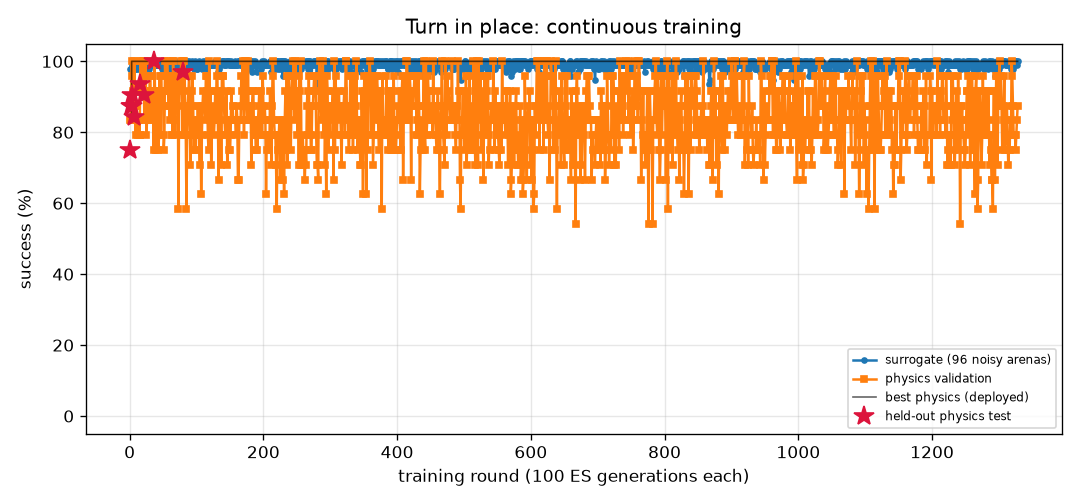
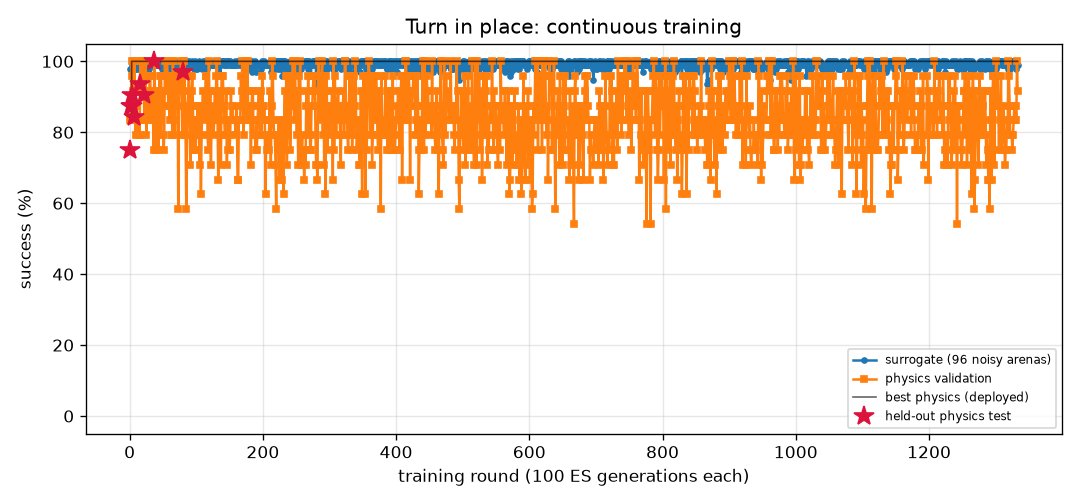
FlyLab: continuous training progress
- walk_forward: optimal, physics val 100% of 24, round 525
- turn: optimal, physics val 100% of 24, round 1333
- goto: optimal, physics val 100% of 24, round 404
- odor_seek: optimal, physics val 100% of 24, round 329
- odor_avoid: optimal, physics val 100% of 24, round 1124
- light_seek: optimal, physics val 100% of 24, round 607
- light_avoid: optimal, physics val 100% of 24, round 836

diff --git a/projects/09_flylab/training/turn/REPORT.md b/projects/09_flylab/training/turn/REPORT.md
@@ -1,14 +1,14 @@
 # Turn in place (`turn`) — training report
 
-*Auto-generated by `train_brains.py`, last updated 2026-11-24T14:01:51.*
+*Auto-generated by `train_brains.py`, last updated 2026-11-24T14:57:04.*
 
 ![curve](curve.png)
 
 | | |
 |---|---|
-| rounds | 1328 |
-| ES generations | 132800 |
-| physics runs | 32118 |
+| rounds | 1333 |
+| ES generations | 133300 |
+| physics runs | 32238 |
 | status | **optimal** |
 | best brain | round 80: physics validation **100%** on 24 arenas, surrogate 100% |
 | held-out physics test | **97%** on 32 unseen arenas (95% CI 84%-99%) (errors: [1.6, 3.3, 6.3, 3.7, 1.1, 0.4, 2.4, 2.9, 0.1, 2.6, 0.5, 2.7, 1.5, 3.1, 4.5, 0.2, 0.5, 1.1, 2.0, 4.4, 2.8, 3.2, 0.3, 2.2, 0.5, 3.0, 0.3, 5.4, 0.4, 1.0, 4.7, 10.7]) |
@@ -17,11 +17,6 @@ Physics error per arena: deg from target heading (< 20 = success).
 
 | round | level | gens | sigma | surrogate | physics val | val errors | test | note |
 |---:|---:|---:|---:|---:|---:|---|---:|---|
-| 1289 | 3 | 128900 | 0.024 | 99% | 67% | [8.2, 0.4, 3.4, 0.7, 2.1, 109.1, 3.8, 1.8, 4.8, 0.6, 4.5, 1.8, 0.3, 0.2, 5.5, 2.6, 0.8, 2.9, 0.0, 7.5, 5.4, 3.6, 6.8, 7.2] |  |  |
-| 1290 | 3 | 129000 | 0.025 | 100% | 67% | [9.3, 4.2, 7.9, 1.2, 1.9, 7.1, 6.5, 4.2, 6.7, 1.5, 6.8, 1.6, 2.4, 1.1, 6.4, 3.6, 1.6, 2.8, 5.5, 1.5, 5.3, 0.9, 7.3, 7.7] |  |  |
-| 1291 | 3 | 129100 | 0.024 | 98% | 58% | [5.3, 1.3, 7.4, 2.3, 1.1, 3.9, 7.8, 0.2, 6.8, 1.0, 7.4, 3.0, 2.1, 0.2, 6.6, 1.8, 2.2, 3.5, 3.3, 4.2, 4.6, 2.2, 6.2, 8.2] |  |  |
-| 1292 | 3 | 129200 | 0.025 | 99% | 92% | [3.2, 4.2, 0.6, 1.3, 0.7, 4.4, 8.4, 10.0, 9.9, 1.9, 5.4, 4.6, 2.3, 2.0, 5.0, 12.2, 4.8, 4.4, 3.8, 3.2, 2.8, 3.9, 9.9, 7.8] |  | restart from best |
-| 1293 | 3 | 129300 | 0.024 | 99% | 92% | [1.0, 3.4, 0.7, 1.7, 12.8, 0.7, 7.4, 8.0, 7.0, 0.8, 4.5, 1.2, 0.9, 2.1, 3.3, 2.1, 1.2, 1.7, 3.2, 2.7, 5.1, 1.0, 5.8, 2.3] |  |  |
 | 1294 | 3 | 129400 | 0.025 | 96% | 67% | [14.4, 10.8, 10.2, 4.6, 20.1, 7.9, 10.7, 12.3, 8.7, 4.6, 5.9, 7.4, 4.5, 3.4, 5.3, 4.5, 7.3, 7.1, 4.6, 7.6, 0.2, 3.4, 9.5, 9.3] |  |  |
 | 1295 | 3 | 129500 | 0.026 | 97% | 83% | [5.3, 1.6, 6.4, 1.5, 15.5, 0.7, 6.5, 8.6, 6.5, 1.7, 5.5, 1.7, 1.7, 1.6, 4.7, 3.1, 0.2, 4.6, 0.7, 0.6, 5.3, 3.9, 6.4, 5.0] |  |  |
 | 1296 | 3 | 129600 | 0.026 | 99% | 96% | [2.8, 3.7, 1.0, 2.2, 0.0, 1.7, 5.6, 6.2, 5.2, 0.7, 3.8, 1.2, 1.7, 2.7, 4.0, 0.3, 1.3, 0.9, 0.9, 0.4, 2.9, 1.5, 5.4, 6.9] |  | restart from best |
@@ -57,3 +52,8 @@ Physics error per arena: deg from target heading (< 20 = success).
 | 1326 | 3 | 132600 | 0.024 | 100% | 79% | [2.2, 4.4, 0.8, 3.2, 1.1, 2.0, 5.5, 6.0, 4.7, 0.2, 4.4, 0.9, 0.8, 0.4, 5.8, 3.2, 0.5, 1.3, 2.6, 3.3, 3.2, 3.0, 6.0, 5.2] |  |  |
 | 1327 | 3 | 132700 | 0.024 | 99% | 83% | [5.6, 9.5, 2.0, 1.4, 1.6, 2.5, 3.0, 1.0, 3.3, 0.4, 4.2, 1.8, 1.2, 1.9, 2.6, 2.4, 1.9, 0.5, 1.2, 2.1, 7.2, 3.1, 3.3, 0.2] |  |  |
 | 1328 | 3 | 132800 | 0.025 | 100% | 88% | [4.2, 8.9, 0.2, 0.8, 2.8, 1.2, 4.7, 3.3, 3.6, 1.4, 3.1, 1.7, 3.5, 2.6, 3.9, 2.0, 1.7, 1.0, 1.6, 1.1, 5.4, 2.0, 3.6, 3.5] |  | restart from best |
+| 1329 | 3 | 132900 | 0.024 | 99% | 83% | [8.2, 7.5, 3.8, 3.0, 4.9, 4.5, 5.0, 0.3, 4.1, 0.1, 3.3, 2.3, 2.4, 3.6, 2.6, 0.9, 1.9, 0.2, 0.8, 1.7, 6.5, 2.7, 5.2, 0.3] |  |  |
+| 1330 | 3 | 133000 | 0.025 | 98% | 88% | [5.5, 6.0, 2.4, 2.6, 1.9, 3.1, 5.4, 6.6, 4.2, 0.3, 4.4, 0.7, 1.6, 3.7, 1.5, 1.5, 0.3, 2.1, 0.3, 0.2, 6.1, 0.5, 7.3, 4.8] |  |  |
+| 1331 | 3 | 133100 | 0.025 | 99% | 83% | [0.2, 7.4, 10.6, 0.9, 2.7, 1.9, 6.8, 10.0, 7.5, 2.1, 7.5, 2.9, 1.2, 0.6, 5.9, 2.6, 2.2, 4.1, 0.8, 2.7, 3.7, 2.5, 5.4, 7.7] |  |  |
+| 1332 | 3 | 133200 | 0.025 | 99% | 100% | [3.4, 6.5, 5.5, 3.3, 1.6, 2.0, 4.7, 2.0, 3.5, 0.6, 3.2, 0.7, 3.7, 3.1, 2.6, 0.3, 0.3, 1.0, 0.4, 3.3, 7.2, 1.7, 3.8, 8.5] |  | restart from best |
+| 1333 | 3 | 133300 | 0.024 | 99% | 92% | [0.7, 1.2, 3.0, 0.9, 13.3, 1.0, 5.8, 8.8, 6.8, 1.1, 5.0, 1.6, 1.5, 1.8, 4.9, 2.5, 1.3, 1.6, 2.3, 1.1, 4.8, 2.1, 7.1, 0.0] |  |  |

diff --git a/projects/09_flylab/training/odor_avoid/REPORT.md b/projects/09_flylab/training/odor_avoid/REPORT.md
@@ -1,14 +1,14 @@
 # Escape a bad smell (`odor_avoid`) — training report
 
-*Auto-generated by `train_brains.py`, last updated 2026-11-24T11:16:00.*
+*Auto-generated by `train_brains.py`, last updated 2026-11-24T14:50:23.*
 
 ![curve](curve.png)
 
 | | |
 |---|---|
-| rounds | 1121 |
-| ES generations | 112100 |
-| physics runs | 24210 |
+| rounds | 1124 |
+| ES generations | 112400 |
+| physics runs | 24282 |
 | status | **optimal** |
 | best brain | round 373: physics validation **100%** on 24 arenas, surrogate 97% |
 | held-out physics test | **97%** on 32 unseen arenas (95% CI 84%-99%) (errors: [62.0, 57.4, 62.6, 61.9, 59.0, 61.6, 56.5, 60.7, 31.7, 60.9, 63.1, 57.1, 61.1, 62.1, 61.5, 60.2, 62.2, 55.2, 62.1, 54.2, 61.3, 62.0, 58.0, 61.9, 59.8, 56.5, 56.3, 56.4, 56.3, 57.7, 61.9, 32.4]) |
@@ -17,9 +17,6 @@ Physics error per arena: mm gained away from source (> 6 without first approachi
 
 | round | level | gens | sigma | surrogate | physics val | val errors | test | note |
 |---:|---:|---:|---:|---:|---:|---|---:|---|
-| 1082 | 3 | 108200 | 0.026 | 95% | 96% | [62.8, 57.9, 58.7, 61.0, 61.7, 60.7, 61.4, 27.8, 60.8, 59.0, 61.8, 60.9, 54.9, 58.2, 48.3, 61.1, 61.6, 61.3, 55.5, 56.9, 61.5, 55.4, 58.2, 44.6] |  |  |
-| 1083 | 3 | 108300 | 0.027 | 95% | 96% | [63.0, 57.6, 58.0, 61.2, 60.5, 60.8, 61.1, 42.6, 60.5, 49.4, 60.6, 59.8, 52.4, 55.1, 43.9, 61.5, 60.3, 61.3, 54.2, 55.9, 60.4, 58.5, 58.7, 47.9] |  |  |
-| 1084 | 3 | 108400 | 0.027 | 94% | 96% | [62.3, 59.1, 58.2, 60.2, 60.5, 61.3, 60.2, 48.4, 60.4, 59.5, 60.8, 59.7, 53.4, 57.4, 41.6, 60.9, 59.7, 60.2, 53.3, 56.5, 59.4, 59.7, 60.4, 50.6] |  |  |
 | 1085 | 3 | 108500 | 0.028 | 96% | 96% | [63.0, 61.0, 58.1, 61.1, 61.5, 62.3, 61.5, 60.0, 60.5, 62.2, 61.4, 60.0, 53.5, 58.3, 45.4, 62.4, 60.6, 62.2, 54.2, 57.8, 59.7, 62.4, 55.9, 62.7] |  | restart from best |
 | 1086 | 3 | 108600 | 0.026 | 93% | 100% | [62.7, 55.9, 56.4, 57.9, 61.9, 60.9, 60.4, 15.2, 60.6, 61.7, 62.4, 62.0, 55.2, 56.7, 45.9, 61.7, 61.5, 62.5, 55.4, 57.2, 61.6, 57.4, 58.1, 31.8] |  |  |
 | 1087 | 3 | 108700 | 0.028 | 97% | 100% | [63.0, 57.1, 56.7, 57.6, 62.6, 61.5, 61.9, 39.4, 60.3, 60.4, 62.4, 61.9, 54.1, 56.7, 52.2, 62.5, 62.5, 61.0, 55.3, 55.5, 62.4, 61.6, 57.6, 58.5] |  |  |
@@ -57,3 +54,6 @@ Physics error per arena: mm gained away from source (> 6 without first approachi
 | 1119 | 3 | 111900 | 0.026 | 91% | 100% | [12.5, 54.4, 55.9, 53.5, 62.6, 61.9, 59.5, 62.1, 60.3, 61.6, 61.8, 62.3, 55.0, 56.7, 50.1, 62.5, 62.6, 62.2, 55.6, 53.9, 62.3, 61.7, 59.7, 61.8] |  |  |
 | 1120 | 3 | 112000 | 0.029 | 97% | 100% | [61.3, 58.5, 56.1, 59.0, 61.2, 61.6, 60.1, 29.6, 61.4, 60.8, 61.2, 60.9, 54.9, 57.0, 51.7, 60.7, 61.7, 60.8, 55.0, 56.7, 62.0, 61.6, 58.9, 47.4] |  |  |
 | 1121 | 3 | 112100 | 0.026 | 98% | 96% | [52.4, 51.3, 51.7, 51.9, 50.4, 52.6, 52.4, 52.5, 52.1, 40.0, 23.1, 52.7, 44.2, 50.7, 13.9, 46.7, 52.6, 42.3, 46.4, 50.0, 53.0, 53.5, 52.3, 53.9] |  | restart from best |
+| 1122 | 3 | 112200 | 0.026 | 96% | 96% | [62.3, 59.7, 57.7, 60.8, 61.8, 62.2, 62.0, 59.5, 62.0, 61.2, 61.4, 61.7, 53.8, 58.4, 34.1, 61.9, 62.0, 61.6, 55.0, 59.6, 62.1, 61.8, 60.3, 55.3] |  |  |
+| 1123 | 3 | 112300 | 0.026 | 95% | 100% | [61.1, 59.3, 57.9, 59.3, 60.8, 61.3, 61.1, 38.1, 60.9, 39.0, 39.3, 59.6, 50.5, 56.9, 38.9, 60.3, 59.4, 60.0, 52.0, 58.4, 59.3, 24.6, 58.3, 19.4] |  |  |
+| 1124 | 3 | 112400 | 0.027 | 95% | 96% | [62.5, 56.7, 56.7, 56.4, 60.3, 61.8, 60.1, 61.9, 60.6, 59.3, 58.9, 60.3, 49.5, 53.2, 38.0, 61.8, 59.3, 61.0, 51.4, 58.3, 60.3, 62.4, 59.1, 62.0] |  |  |

diff --git a/projects/09_flylab/training/odor_seek/REPORT.md b/projects/09_flylab/training/odor_seek/REPORT.md
@@ -1,14 +1,14 @@
 # Find food by smell (`odor_seek`) — training report
 
-*Auto-generated by `train_brains.py`, last updated 2026-11-24T13:36:54.*
+*Auto-generated by `train_brains.py`, last updated 2026-11-24T14:08:45.*
 
 ![curve](curve.png)
 
 | | |
 |---|---|
-| rounds | 328 |
-| ES generations | 32800 |
-| physics runs | 7366 |
+| rounds | 329 |
+| ES generations | 32900 |
+| physics runs | 7390 |
 | status | **optimal** |
 | best brain | round 240: physics validation **100%** on 24 arenas, surrogate 100% |
 | held-out physics test | **100%** on 32 unseen arenas (95% CI 89%-100%) (errors: [0.02, 0.03, 0.03, 0.05, 0.04, 0.05, 0.06, 0.07, 0.09, 0.05, 0.05, 0.01, 0.12, 0.03, 0.07, 0.08, 0.02, 0.06, 0.03, 0.04, 0.0, 0.01, 0.09, 0.05, 0.04, 0.01, 0.07, 0.05, 0.08, 0.05, 0.05, 0.02]) |
@@ -17,7 +17,6 @@ Physics error per arena: mm from target at the end (< 1.5 and standing still = s
 
 | round | level | gens | sigma | surrogate | physics val | val errors | test | note |
 |---:|---:|---:|---:|---:|---:|---|---:|---|
-| 289 | 3 | 28900 | 0.024 | 100% | 96% | [0.11, 0.11, 0.1, 0.11, 0.09, 0.18, 0.06, 0.21, 0.12, 0.07, 13.19, 0.11, 0.04, 0.17, 0.16, 0.14, 0.06, 0.13, 0.14, 0.17, 0.05, 0.08, 0.09, 0.05] |  |  |
 | 290 | 3 | 29000 | 0.024 | 100% | 100% | [0.05, 0.12, 0.15, 0.18, 0.33, 0.06, 0.14, 0.18, 0.08, 0.01, 0.15, 0.06, 0.07, 0.25, 0.1, 0.07, 0.13, 0.32, 0.18, 0.13, 0.15, 0.14, 0.06, 0.08] |  |  |
 | 291 | 3 | 29100 | 0.024 | 100% | 100% | [0.18, 0.14, 0.12, 0.09, 0.09, 0.11, 0.14, 0.23, 0.14, 0.18, 0.17, 0.15, 0.16, 0.11, 0.13, 0.16, 0.13, 0.1, 0.18, 0.24, 0.13, 0.2, 0.09, 0.13] |  |  |
 | 292 | 3 | 29200 | 0.024 | 100% | 100% | [0.06, 0.08, 0.07, 0.17, 0.18, 0.14, 0.07, 0.06, 0.05, 0.1, 0.18, 0.15, 0.15, 0.16, 0.08, 0.16, 0.05, 0.12, 0.06, 0.14, 0.12, 0.05, 0.13, 0.05] |  | restart from best |
@@ -57,3 +56,4 @@ Physics error per arena: mm from target at the end (< 1.5 and standing still = s
 | 326 | 3 | 32600 | 0.024 | 100% | 100% | [0.06, 0.02, 0.12, 0.11, 0.05, 0.09, 0.12, 0.14, 0.14, 0.13, 0.19, 0.09, 0.21, 0.17, 0.09, 0.16, 0.07, 0.2, 0.16, 0.1, 0.1, 0.07, 0.09, 0.12] |  |  |
 | 327 | 3 | 32700 | 0.024 | 100% | 100% | [0.11, 0.07, 0.22, 0.14, 0.14, 0.14, 0.18, 0.13, 0.23, 0.15, 0.14, 0.15, 0.18, 0.14, 0.11, 0.15, 0.27, 0.17, 0.18, 0.13, 0.16, 0.09, 0.16, 0.12] |  |  |
 | 328 | 3 | 32800 | 0.024 | 100% | 100% | [0.16, 0.22, 0.17, 0.16, 0.17, 0.17, 0.23, 0.15, 0.2, 0.17, 0.25, 0.21, 0.15, 0.2, 0.17, 0.19, 0.15, 0.19, 0.2, 0.15, 0.2, 0.2, 0.2, 0.17] |  | restart from best |
+| 329 | 3 | 32900 | 0.024 | 100% | 100% | [0.16, 0.14, 0.17, 0.17, 0.2, 0.19, 0.2, 0.12, 0.18, 0.13, 0.14, 0.2, 0.18, 0.18, 0.2, 0.12, 0.18, 0.15, 0.18, 0.16, 0.1, 0.21, 0.19, 0.12] |  |  |

diff --git a/projects/09_flylab/training/TRAINING.md b/projects/09_flylab/training/TRAINING.md
@@ -1,15 +1,15 @@
 # FlyLab brains — continuous training log
 
-*Auto-generated by `train_brains.py`, last updated 2026-11-24T14:01:51.*
+*Auto-generated by `train_brains.py`, last updated 2026-11-24T14:57:04.*
 
 Every skill has its own brain and its own training process: surrogate ES rounds, physics validation in MuJoCo, keep-the-best selection, and a held-out physics test that is never used for selection. See each skill's report for its full round-by-round history. Mastery is progressive: passing a level (100% physics validation, >=95% surrogate) doubles the validation and test arena sets; a brain is **optimal** once it holds up at level 3 (>=95% of 24 validation arenas) AND scores >=90% on the 32 held-out test arenas. Test columns show 95% Wilson confidence intervals.
 
 | skill | rounds | ES generations | physics runs | surrogate | physics val | **physics test** | status |
 |---|---:|---:|---:|---:|---:|---:|---|
 | [Walk forward](walk_forward/REPORT.md) | 525 | 52500 | 12678 | 100% | 100% of 24 | 100% of 32 (CI 89-100%) | **optimal** |
-| [Turn in place](turn/REPORT.md) | 1328 | 132800 | 32118 | 100% | 100% of 24 | 97% of 32 (CI 84-99%) | **optimal** |
+| [Turn in place](turn/REPORT.md) | 1333 | 133300 | 32238 | 100% | 100% of 24 | 97% of 32 (CI 84-99%) | **optimal** |
 | [Go to a location](goto/REPORT.md) | 404 | 40400 | 9646 | 100% | 100% of 24 | 100% of 32 (CI 89-100%) | **optimal** |
-| [Find food by smell](odor_seek/REPORT.md) | 328 | 32800 | 7366 | 100% | 100% of 24 | 100% of 32 (CI 89-100%) | **optimal** |
-| [Escape a bad smell](odor_avoid/REPORT.md) | 1121 | 112100 | 24210 | 97% | 100% of 24 | 97% of 32 (CI 84-99%) | **optimal** |
+| [Find food by smell](odor_seek/REPORT.md) | 329 | 32900 | 7390 | 100% | 100% of 24 | 100% of 32 (CI 89-100%) | **optimal** |
+| [Escape a bad smell](odor_avoid/REPORT.md) | 1124 | 112400 | 24282 | 97% | 100% of 24 | 97% of 32 (CI 84-99%) | **optimal** |
 | [Walk toward light](light_seek/REPORT.md) | 607 | 60700 | 11448 | 100% | 100% of 24 | 100% of 32 (CI 89-100%) | **optimal** |
 | [Hide from light](light_avoid/REPORT.md) | 836 | 83600 | 20336 | 100% | 100% of 24 | 100% of 32 (CI 89-100%) | **optimal** |
